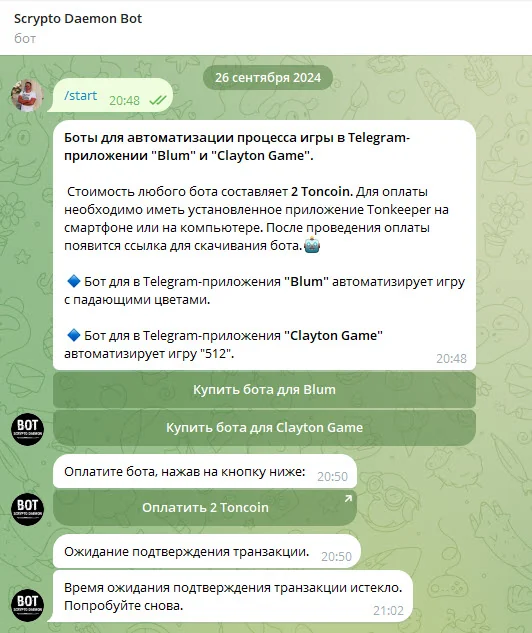
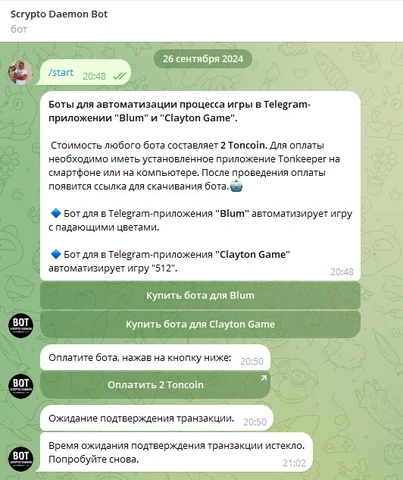
docs: sync project presentation and screenshots with portfolio

diff --git a/README.md b/README.md
@@ -1,10 +1,59 @@
-# telegram_bot_scrypto_daemon
+# Telegram-магазин с оплатой в TON
+
+Рабочее название: `telegram_bot_scrypto_daemon`.
 
 Бот проводит пользователя через выбор приложения и оплату в TON. После нажатия кнопки он формирует ссылку Tonkeeper с комментарием платежа, запускает периодическую проверку транзакции и при подтверждении отправляет ссылку на скачивание.
 
 **Python-портфолио Евгения Толмачева** · Python · python-telegram-bot · APScheduler · TON API · Requests
 
-![Интерфейс telegram_bot_scrypto_daemon](docs/preview.webp)
+<img src="docs/screenshots/1.jpg" alt="Скриншот 1" width="532">
+
+## Скриншоты
+
+<details>
+<summary>Telegram-магазин с оплатой в TON - 10 снимков</summary>
+
+### Скриншот 1
+
+<img src="docs/screenshots/1.jpg" alt="Скриншот 1" width="532">
+
+### Скриншот 2
+
+<img src="docs/screenshots/2.jpg" alt="Скриншот 2" width="687">
+
+### Скриншот 3
+
+<img src="docs/screenshots/3.jpg" alt="Скриншот 3" width="624">
+
+### Скриншот 4
+
+<img src="docs/screenshots/4.jpg" alt="Скриншот 4" width="616">
+
+### Скриншот 6
+
+<img src="docs/screenshots/6.jpg" alt="Скриншот 6" width="860">
+
+### Скриншот 7
+
+<img src="docs/screenshots/7.jpg" alt="Скриншот 7" width="860">
+
+### Скриншот 9
+
+<img src="docs/screenshots/9.jpg" alt="Скриншот 9" width="860">
+
+### Скриншот 11
+
+<img src="docs/screenshots/11.jpg" alt="Скриншот 11" width="860">
+
+### Скриншот 12
+
+<img src="docs/screenshots/12.jpg" alt="Скриншот 12" width="860">
+
+### Скриншот 15
+
+<img src="docs/screenshots/15.jpg" alt="Скриншот 15" width="860">
+
+</details>
 
 ## Возможности
 
@@ -43,6 +92,7 @@ APScheduler запускает повторные проверки и тайма
 
 ## С чего начать просмотр кода
 
+
 Основной файл удобно читать от buy_bot к check_payment и check_payment_status: они связывают пользовательский диалог, расписание проверок и выдачу результата.
 
 ## Подготовка и запуск
@@ -76,7 +126,8 @@ python telegram_bot_scrypto_daemon.py
 ```text
 telegram_bot_scrypto_daemon/
 ├── docs/
-│   └── preview.webp
+│   ├── preview.webp
+│   └── screenshots/  # скриншоты из портфолио
 ├── .env.example
 ├── .gitignore
 ├── README.md
@@ -92,6 +143,6 @@ telegram_bot_scrypto_daemon/
 
 ## Состав репозитория
 
-Сохранены авторские исходники, их имена и структура, зависимости и компактный скриншот. Рабочие базы, наборы данных, модели и виртуальные окружения исключены. Секреты заменены обозначениями `YOUR_...` / `REDACTED_...`; реальные значения задаются локально. Исходные алгоритмы при оформлении портфолио не перерабатывались.
+Сохранены авторские исходники, их имена и структура, зависимости и скриншоты интерфейса. Рабочие базы, наборы данных, модели и виртуальные окружения исключены. Секреты заменены обозначениями `YOUR_...` / `REDACTED_...`; реальные значения задаются локально. Исходные алгоритмы при оформлении портфолио не перерабатывались.
 
 Автор: [Евгений Толмачев](https://github.com/EvgenyET) · [Портфолио](https://evgeny.tech/)
